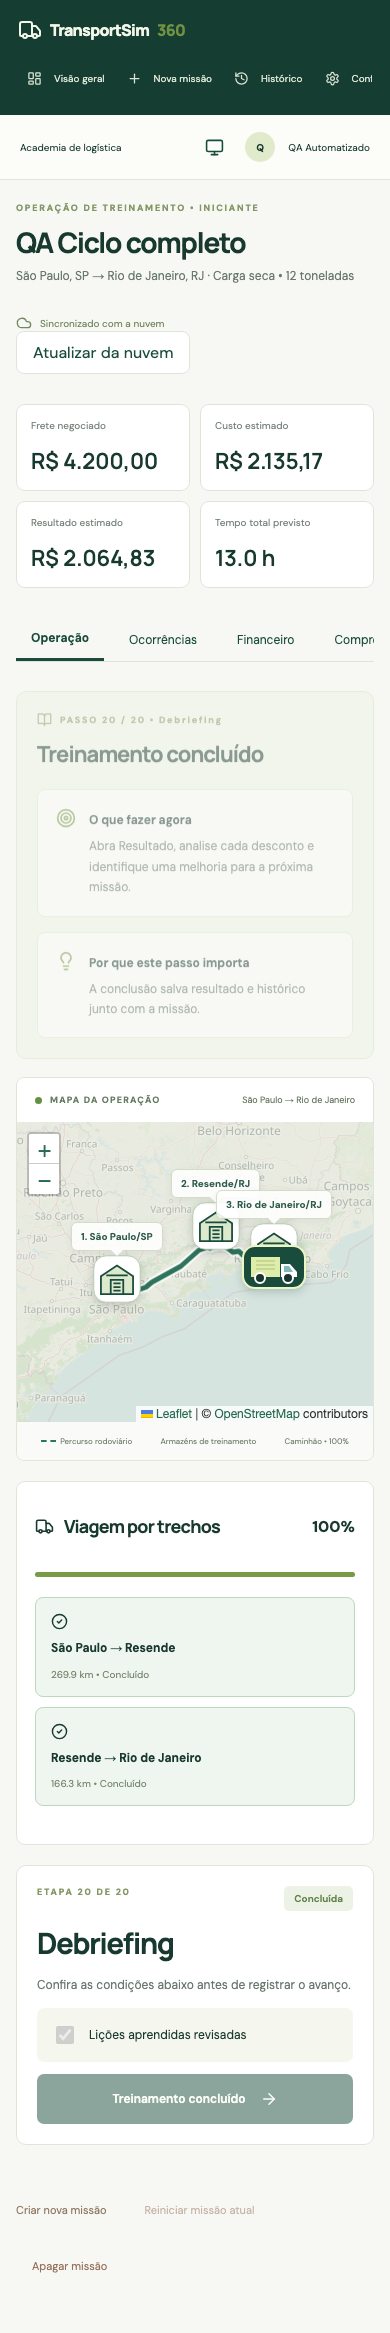
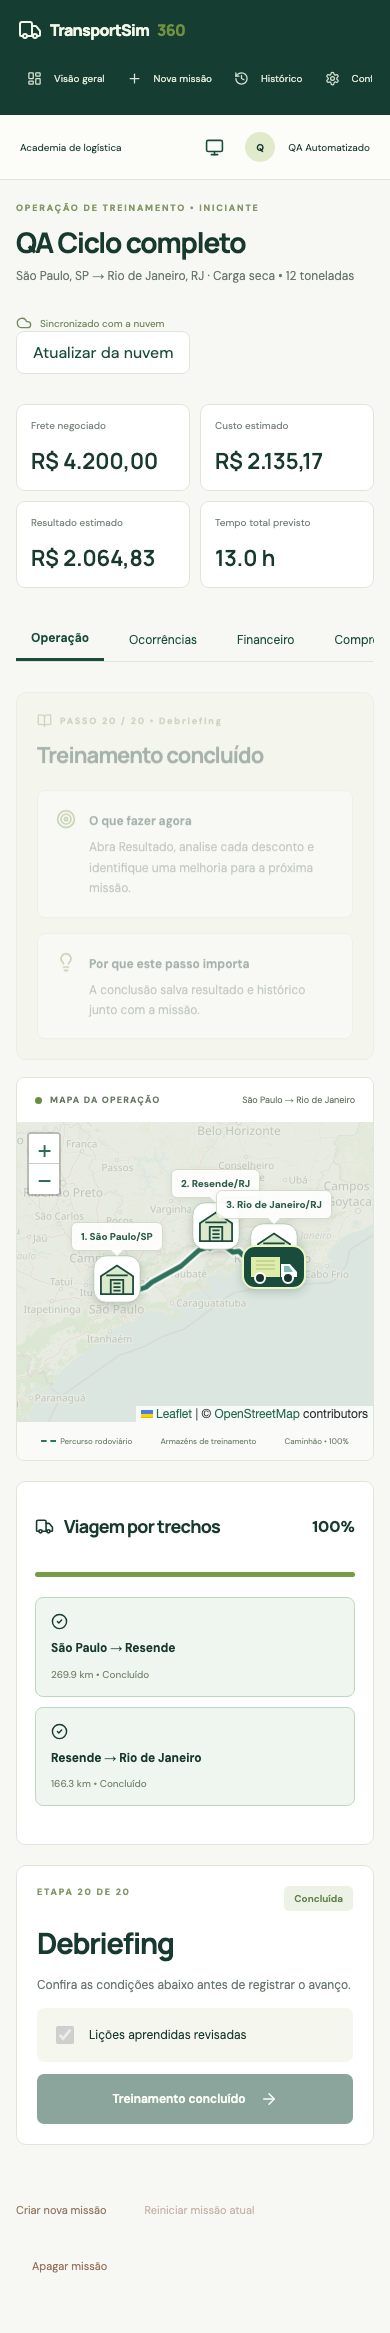
fix: align truck travel with operation stages and simplify profile

diff --git a/tests/route.test.ts b/tests/route.test.ts
@@ -8,11 +8,14 @@ import {
   type RoutePlan,
 } from "../src/domain/route";
 import {
+  type Mission,
   createMission,
   defaults,
   advance,
   travelNextLeg,
   addOccurrence,
+  missionProgress,
+  stageTravelLimit,
 } from "../src/domain/mission";
 import { calculateRoadRoute } from "../src/services/geography";
 export const plan: RoutePlan = {
@@ -53,19 +56,46 @@ describe("trechos e movimento", () => {
       ),
     ).toEqual({ lat: 0, lng: 1.5 });
   });
-  it("bloqueia saída antes do transporte, pane e avanço incompleto", () => {
+  it("distribui a viagem pelas etapas sem chegar antecipadamente", () => {
     let mission = createMission({ ...defaults, routePlan: plan });
     expect(() => travelNextLeg(mission)).toThrow("Transporte");
-    mission = { ...mission, step: 8, checks: { "8:0": true } };
-    expect(() => advance(mission)).toThrow("trechos");
+    mission = {
+      ...mission,
+      step: 8,
+      checks: { "8:0": true, "9:0": true, "10:0": true, "11:0": true },
+    };
+    expect(() => advance(mission)).toThrow("viagem");
     expect(() =>
       travelNextLeg(addOccurrence(mission, "pane", "Pane impeditiva")),
     ).toThrow("impeditiva");
-    mission = travelNextLeg(mission);
-    expect(mission.journeyProgress).toBe(2 / 3);
-    mission = travelNextLeg(mission);
-    expect(advance(mission).step).toBe(9);
-    expect(() => travelNextLeg(mission)).toThrow("já foram");
+    for (const step of [8, 9, 10, 11]) {
+      const limit = stageTravelLimit(step);
+      while (missionProgress(mission) < limit - 1e-6) {
+        const before = missionProgress(mission);
+        mission = travelNextLeg(mission);
+        expect(missionProgress(mission) - before).toBeLessThanOrEqual(0.100001);
+      }
+      expect(mission.journeyProgress).toBe(limit);
+      if (step < 11) expect(missionProgress(mission)).toBeLessThan(1);
+      expect(() => travelNextLeg(mission)).toThrow("concluído");
+      const previous = missionProgress(mission);
+      mission = advance(mission);
+      expect(missionProgress(mission)).toBe(previous);
+    }
+    expect(mission.step).toBe(12);
+    expect(missionProgress(mission)).toBe(1);
+  });
+  it("não força missões antigas a 100% ao avançar e exige liberação mecânica", () => {
+    let mission: Mission = {
+      ...createMission({ ...defaults, routePlan: plan }),
+      step: 9,
+      journeyProgress: 1,
+      checks: { "9:0": true },
+    };
+    expect(missionProgress(mission)).toBe(0.7);
+    mission = advance(mission);
+    expect(mission.journeyProgress).toBe(0.7);
+    expect(() => travelNextLeg(mission)).toThrow("liberação");
   });
   it("valida formato e continuidade de trechos", () => {
     expect(routePlanSchema.safeParse({ ...plan, legs: [] }).success).toBe(

diff --git a/src/domain/mission.ts b/src/domain/mission.ts
@@ -284,14 +284,20 @@ export function advance(m: Mission): Mission {
     m.occurrences.some((o) => !o.resolved && occurrenceTypes[o.kind].blocking)
   )
     throw Error("Resolva as ocorrências impeditivas antes de avançar.");
-  if (m.step === 8 && m.input.routePlan && (m.journeyProgress ?? 0) < 1)
+  if (
+    m.input.routePlan &&
+    m.step >= 8 &&
+    m.step <= 11 &&
+    missionProgress(m) + 1e-6 < stageTravelLimit(m.step)
+  )
     throw Error(
-      "Percorra todos os trechos da viagem antes de concluir Transporte.",
+      "Percorra a parte da viagem correspondente a esta etapa antes de avançar.",
     );
   if (!(requirements[m.step] ?? []).every((_, i) => m.checks[`${m.step}:${i}`]))
     throw Error("Conclua o checklist desta etapa.");
   return {
     ...m,
+    ...(m.input.routePlan ? { journeyProgress: missionProgress(m) } : {}),
     step: Math.min(19, m.step + 1),
     completed: m.step === 19,
     updatedAt: new Date().toISOString(),
@@ -342,9 +348,29 @@ export function resolveOccurrence(
   };
 }
 
+export function stageTravelLimit(step: number) {
+  return step < 8
+    ? 0
+    : step === 8
+      ? 0.4
+      : step === 9
+        ? 0.7
+        : step === 10
+          ? 0.9
+          : 1;
+}
+export function missionProgress(m: Mission) {
+  if (m.step < 8) return 0;
+  return Math.min(
+    m.journeyProgress ?? (m.step >= 12 ? 1 : 0),
+    stageTravelLimit(m.step),
+  );
+}
 export function travelNextLeg(m: Mission): Mission {
-  if (m.completed || m.step !== 8)
-    throw Error("A movimentação só é permitida na etapa Transporte.");
+  if (m.completed || m.step < 8 || m.step > 11)
+    throw Error(
+      "A movimentação só é permitida de Transporte até Chegada ao destino.",
+    );
   if (
     m.occurrences.some((o) => !o.resolved && occurrenceTypes[o.kind].blocking)
   )
@@ -353,10 +379,18 @@ export function travelNextLeg(m: Mission): Mission {
     );
   if (!m.input.routePlan)
     throw Error("Configure os trechos antes de iniciar a viagem.");
-  if ((m.journeyProgress ?? 0) >= 1)
-    throw Error("Todos os trechos já foram percorridos.");
-  return {
-    ...m,
-    journeyProgress: nextLegProgress(m.input.routePlan, m.journeyProgress ?? 0),
-  };
+  if (m.step === 10 && !m.checks["10:0"])
+    throw Error(
+      "Confirme a liberação do veículo no checklist antes de continuar a viagem.",
+    );
+  const progress = missionProgress(m);
+  const limit = stageTravelLimit(m.step);
+  if (progress >= limit - 1e-6)
+    throw Error("O percurso desta etapa já foi concluído.");
+  const next = Math.min(
+    limit,
+    progress + 0.1,
+    nextLegProgress(m.input.routePlan, progress),
+  );
+  return { ...m, journeyProgress: limit - next < 1e-6 ? limit : next };
 }

diff --git a/src/components/JourneyControls.tsx b/src/components/JourneyControls.tsx
@@ -2,6 +2,8 @@ import { Truck, MapPin, CheckCircle2 } from "lucide-react";
 import { legBoundaries } from "../domain/route";
 import {
   occurrenceTypes,
+  missionProgress,
+  stageTravelLimit,
   travelNextLeg,
   type Mission,
 } from "../domain/mission";
@@ -16,11 +18,13 @@ export function JourneyControls({
 }) {
   const plan = mission.input.routePlan;
   if (!plan) return null;
-  const progress = mission.step > 8 ? 1 : (mission.journeyProgress ?? 0);
+  const progress = missionProgress(mission);
+  const limit = stageTravelLimit(mission.step);
   const boundaries = legBoundaries(plan);
   const blocked = mission.occurrences.some(
     (o) => !o.resolved && occurrenceTypes[o.kind].blocking,
   );
+  const inspectionPending = mission.step === 10 && !mission.checks["10:0"];
   const active = boundaries.findIndex((p) => p > progress + 1e-6);
   return (
     <section className="journey-controls">
@@ -64,19 +68,31 @@ export function JourneyControls({
           </article>
         ))}
       </div>
-      {mission.step === 8 && (
+      {mission.step >= 8 && mission.step <= 11 && (
         <button
           className="primary"
-          disabled={disabled || blocked || progress >= 1}
+          disabled={
+            disabled || blocked || inspectionPending || progress >= limit - 1e-6
+          }
           onClick={() => onChange(travelNextLeg(mission))}
         >
-          {blocked
-            ? "Viagem bloqueada por ocorrência"
-            : progress >= 1
-              ? "Todos os trechos percorridos"
-              : "Percorrer próximo trecho"}
+          {inspectionPending
+            ? "Confirme a liberação no checklist"
+            : blocked
+              ? "Viagem bloqueada por ocorrência"
+              : progress >= limit - 1e-6
+                ? mission.step === 11
+                  ? "Chegada ao destino registrada"
+                  : "Percurso desta etapa concluído"
+                : "Avançar na viagem"}
           <Truck size={18} />
         </button>
+      )}
+      {mission.step >= 8 && mission.step <= 11 && (
+        <p>
+          Limite desta etapa: {(limit * 100).toFixed(0)}% do percurso. A chegada
+          completa acontece somente na etapa Chegada ao destino.
+        </p>
       )}
       {mission.step < 8 && (
         <p>

diff --git a/src/domain/stageGuidance.ts b/src/domain/stageGuidance.ts
@@ -41,22 +41,22 @@ export const stageGuidance = [
   ],
   [
     "Conduza a viagem trecho a trecho",
-    "Use “Percorrer próximo trecho” para mover o caminhão até cada ponto configurado.",
+    "Use “Avançar na viagem” para percorrer a primeira parte da rota. A viagem continua nas próximas etapas.",
     "O progresso é salvo na nuvem. Panes e outras ocorrências impeditivas bloqueiam a movimentação.",
   ],
   [
     "Acompanhe e comunique a operação",
-    "Revise ocorrências, situação da viagem e comunicação com o motorista.",
+    "Continue a viagem até 70% do percurso, acompanhando ocorrências e a comunicação com o motorista.",
     "Registre o impacto financeiro e no prazo de cada evento uma única vez.",
   ],
   [
     "Confirme a liberação mecânica",
-    "Se houve pane, registre a ação corretiva e confirme que o veículo está apto.",
+    "Se houve pane, registre a ação corretiva. Após a liberação, continue até a aproximação do destino, em 90% do percurso.",
     "Resolver a ocorrência libera a continuação, sem apagar custos ou atrasos.",
   ],
   [
     "Formalize a chegada ao destino",
-    "O caminhão está no armazém de destino. Registre a chegada antes de descarregar.",
+    "Percorra os últimos quilômetros para chegar ao armazém de destino e registre a chegada antes de descarregar.",
     "A chegada permite comparar o prazo planejado com o tempo da operação.",
   ],
   [

diff --git a/src/components/RouteMap.tsx b/src/components/RouteMap.tsx
@@ -149,7 +149,6 @@ export function RouteMap({
     if (!plan) return;
     const start = previousProgress.current;
     const end = Math.max(0, Math.min(1, progress));
-    previousProgress.current = end;
     let frame = 0;
     const started = performance.now();
     const reduced = window.matchMedia?.(
@@ -157,10 +156,9 @@ export function RouteMap({
     ).matches;
     function move(now: number) {
       const t = reduced ? 1 : Math.min(1, (now - started) / 1800);
-      const p = pointOnRoute(
-        plan!.geometry,
-        start + (end - start) * (t * t * (3 - 2 * t)),
-      );
+      const shown = start + (end - start) * (t * t * (3 - 2 * t));
+      previousProgress.current = shown;
+      const p = pointOnRoute(plan!.geometry, shown);
       vehicle.current?.setLatLng([p.lat, p.lng]);
       if (t < 1) frame = requestAnimationFrame(move);
     }

diff --git a/src/pages/workspace/Dashboard.tsx b/src/pages/workspace/Dashboard.tsx
@@ -1,3 +1,4 @@
+import { missionProgress } from "../../domain/mission";
 import { ArrowRight, Plus } from "lucide-react";
 import { Link, useOutletContext } from "react-router-dom";
 import { RouteMap } from "../../components/RouteMap";
@@ -55,12 +56,7 @@ export function Dashboard() {
               <p>
                 {m.input.origin} → {m.input.destination}
               </p>
-              <RouteMap
-                input={m.input}
-                progress={
-                  m.step < 8 ? 0 : m.step > 8 ? 1 : (m.journeyProgress ?? 0)
-                }
-              />
+              <RouteMap input={m.input} progress={missionProgress(m)} />
               <div className="progress">
                 <div style={{ width: `${(m.step / 20) * 100}%` }} />
               </div>

diff --git a/src/pages/workspace/Operation.tsx b/src/pages/workspace/Operation.tsx
@@ -1,3 +1,4 @@
+import { missionProgress } from "../../domain/mission";
 import { RoutePlanner } from "../../components/RoutePlanner";
 import { StageGuide } from "../../components/StageGuide";
 import { JourneyControls } from "../../components/JourneyControls";
@@ -195,12 +196,7 @@ export function Operation() {
       {tab === "operacao" && (
         <div className="operation-grid">
           <section>
-            <RouteMap
-              input={m.input}
-              progress={
-                m.step < 8 ? 0 : m.step > 8 ? 1 : (m.journeyProgress ?? 0)
-              }
-            />
+            <RouteMap input={m.input} progress={missionProgress(m)} />
             <JourneyControls
               mission={m}
               disabled={busy || !!pending || m.completed}

diff --git a/src/pages/workspace/Profile.tsx b/src/pages/workspace/Profile.tsx
@@ -15,8 +15,7 @@ export function Profile() {
       <span className="eyebrow">MINHA CONTA</span>
       <h1>{user?.displayName}</h1>
       <p>{user?.email}</p>
-      <p>Identificador da conta: {user?.uid}</p>
-      <p>Autenticação e sessão gerenciadas pelo Firebase Authentication.</p>
+      <p>Gerencie seu acesso e mantenha sua conta segura.</p>
       <button
         className="secondary"
         onClick={() => {

diff --git a/docs/MAPS_AND_ROUTES.md b/docs/MAPS_AND_ROUTES.md
@@ -13,7 +13,7 @@ Em Nova missão/Configurações, selecione origem, destino e até seis cidades i
 
 Missões antigas continuam compatíveis. Sem routePlan, mostram aviso para configuração em vez de exibir um corredor falso. Use Configurar trechos antes da etapa Transporte. Depois da liberação, alterações de input são bloqueadas pelas regras.
 
-O caminhão permanece na origem durante preparação/coleta/carregamento. Na etapa Transporte, Percorrer próximo trecho avança até cada ponto e salva journeyProgress. A geometria orienta a animação, e nenhuma atualização de frame é gravada. Pane impeditiva bloqueia o movimento. Não é possível concluir Transporte sem percorrer todos os trechos das missões que possuem routePlan. Depois da chegada, o caminhão permanece no destino. Reiniciar missão zera o progresso.
+O caminhão permanece na origem durante preparação/coleta/carregamento. Entre Transporte e Chegada ao destino, Avançar na viagem movimenta gradualmente e salva journeyProgress. A geometria orienta a animação, e nenhuma atualização de frame é gravada. Pane impeditiva bloqueia o movimento. Cada etapa exige seu marco de progresso; o percurso só termina completamente na Chegada ao destino. Depois da chegada, o caminhão permanece no destino. Reiniciar missão zera o progresso.
 
 Cards de orientação aparecem em cada uma das vinte etapas: objetivo, ação e consequência. A confirmação de etapa aparece após gravação bem-sucedida.
 
@@ -26,3 +26,7 @@ Referências:
 - https://project-osrm.org/docs/v5.5.1/api/
 - https://github.com/Project-OSRM/osrm-backend/wiki/Api-usage-policy
 - https://operations.osmfoundation.org/policies/tiles/
+
+## Ajuste de movimento por etapa
+
+O progresso não é mais forçado a 100% após Transporte. O limite educativo é 40% em Transporte, 70% em Monitoramento, 90% em Manutenção corretiva/liberação e 100% em Chegada ao destino. Cada comando avança até 10% ou até o próximo ponto, respeitando o limite atual. Concluir a etapa exige alcançar seu limite e cumprir o checklist. Na manutenção corretiva, o movimento exige liberação do veículo no checklist e resolução de panes. A animação retoma da posição visual atual quando interrompida por outro avanço. Missões antigas com 100% antecipado têm o progresso limitado à etapa; avançar normaliza o valor salvo.

diff --git a/docs/TEST_PLAN.md b/docs/TEST_PLAN.md
@@ -25,3 +25,9 @@ Após o proprietário iniciar Authentication, a API confirmou emailEnabled=true.
 `npm test`: 18 testes aprovados, incluindo interpolação geográfica, progressão ponderada dos trechos, seleção da geometria retornada pela API, bloqueio por pane e proibição de concluir viagem incompleta. `npm run test:rules`: quatro testes aprovados, incluindo persistência de routePlan, limite de progresso e bloqueio de alteração de percurso após saída. Build TypeScript/Vite aprovado com Leaflet separado em bundle próprio.
 
 Teste Chrome com APIs reais e Firebase aprovado: seleção de RJ/Resende via IBGE; geocodificação Photon; percurso São Paulo–Resende–Rio via OSRM; aplicação de distância ao orçamento; dois trechos percorridos; cards verificados nas vinte etapas; resultado/histórico em segundo contexto; logout. Nenhum erro JavaScript e nenhum overflow no celular. Conta e missão temporárias removidas. Captura do mapa e dos cards em docs/qa/road-map-truck.png.
+
+## Movimento por etapa e perfil
+
+19 testes locais e build aprovados. Regressões verificam que Transporte não chega ao destino, que o avanço de etapa não teleporta o caminhão, que os incrementos são de até 10%, que manutenção exige liberação e que missões antigas são normalizadas. Perfil removeu o UID e a referência ao provedor de autenticação.
+
+Fluxo completo Chrome/Firebase real aprovado após a revisão: movimento gradual nas quatro etapas, vinte checklists, inspeção antes da continuação, resultado/histórico e perfil sem Firebase/Authentication/UID. Conta e dados sintéticos removidos. Capturas em docs/qa/travel-stage-9.png e travel-stage-12.png.

diff --git a/docs/DEPLOY_VERCEL.md b/docs/DEPLOY_VERCEL.md
@@ -21,3 +21,7 @@ Preview final confirmado READY em 15/10/2026: https://geevheitacademy-l8369xwad-
 Authentication iniciado pelo proprietário no console e confirmado via API: signIn.email.enabled=true e passwordRequired=true. Domínios autorizados incluem localhost, Firebase Hosting e geevheitacademy.vercel.app. Publicação inicial confirmada READY em https://geevheitacademy.vercel.app (deployment dpl_ECsDqEyyMkhVydJM6gfPmuHDvCXc). A CLI tratou o primeiro deploy sem target como produção; os próximos usam --target preview explicitamente.
 
 Revisão de mapas publicada em 15/10/2026, READY: https://geevheitacademy-pc3hiy1n5-geevheits-projects.vercel.app . Deployment dpl_9Vs7gRWLo3xErtw1PEEfTdSGCJSp. Inclui Leaflet/OSM, IBGE/Photon/OSRM, trechos e cards de orientação. Este preview substitui o anterior como versão de revisão atual.
+
+Toolbar removida no projeto por API oficial Vercel: enablePreviewFeedback=false e enableProductionFeedback=false, confirmados por leitura após PATCH. Nenhuma alteração em outros projetos ou na equipe. Referência: https://vercel.com/docs/vercel-toolbar/managing-toolbar . Script reprodutível: scripts/disable-toolbar.cjs.
+
+Revisão de movimento por etapas e perfil publicada READY em 15/10/2026: https://geevheitacademy-iaewjw3jl-geevheits-projects.vercel.app . Deployment dpl_J6QKPd8P8pm215PhjW3zr6FAeKn1. Toolbar desligada no projeto para preview/produção. Build remoto aprovado.

diff --git a/README.md b/README.md
@@ -14,10 +14,10 @@ Sem configuração Firebase, landing e ajuda funcionam; autenticação e missõe
 
 ## Documentação
 
-PRD, TASKS, ARCHITECTURE, DESIGN_SYSTEM, BUSINESS_RULES, FIREBASE_SETUP, FIRESTORE_SECURITY, TEST_PLAN, DEPLOY_VERCEL e FUTURE_INTEGRATIONS em `docs/`. A evidência de testes e o estado externo constam nos respectivos documentos. Foram aprovados 18 testes locais, 4 testes de regras e o fluxo completo no navegador contra Firebase real.
+PRD, TASKS, ARCHITECTURE, DESIGN_SYSTEM, BUSINESS_RULES, FIREBASE_SETUP, FIRESTORE_SECURITY, TEST_PLAN, DEPLOY_VERCEL e FUTURE_INTEGRATIONS em `docs/`. A evidência de testes e o estado externo constam nos respectivos documentos. Foram aprovados 19 testes locais, 4 testes de regras e o fluxo completo no navegador contra Firebase real.
 
 Documentos, valores e rotas são demonstrativos. Não há rastreamento real ou emissão fiscal. Regras educativas de jornada não certificam conformidade legal.
 
-Preview final: https://geevheitacademy-pc3hiy1n5-geevheits-projects.vercel.app
+Preview final: https://geevheitacademy-iaewjw3jl-geevheits-projects.vercel.app
 
 Mapas e trechos: consulte docs/MAPS_AND_ROUTES.md. Origem/destino e pontos intermediários são configuráveis; caminhão percorre os trechos na etapa Transporte, com cards explicativos em cada passo.
